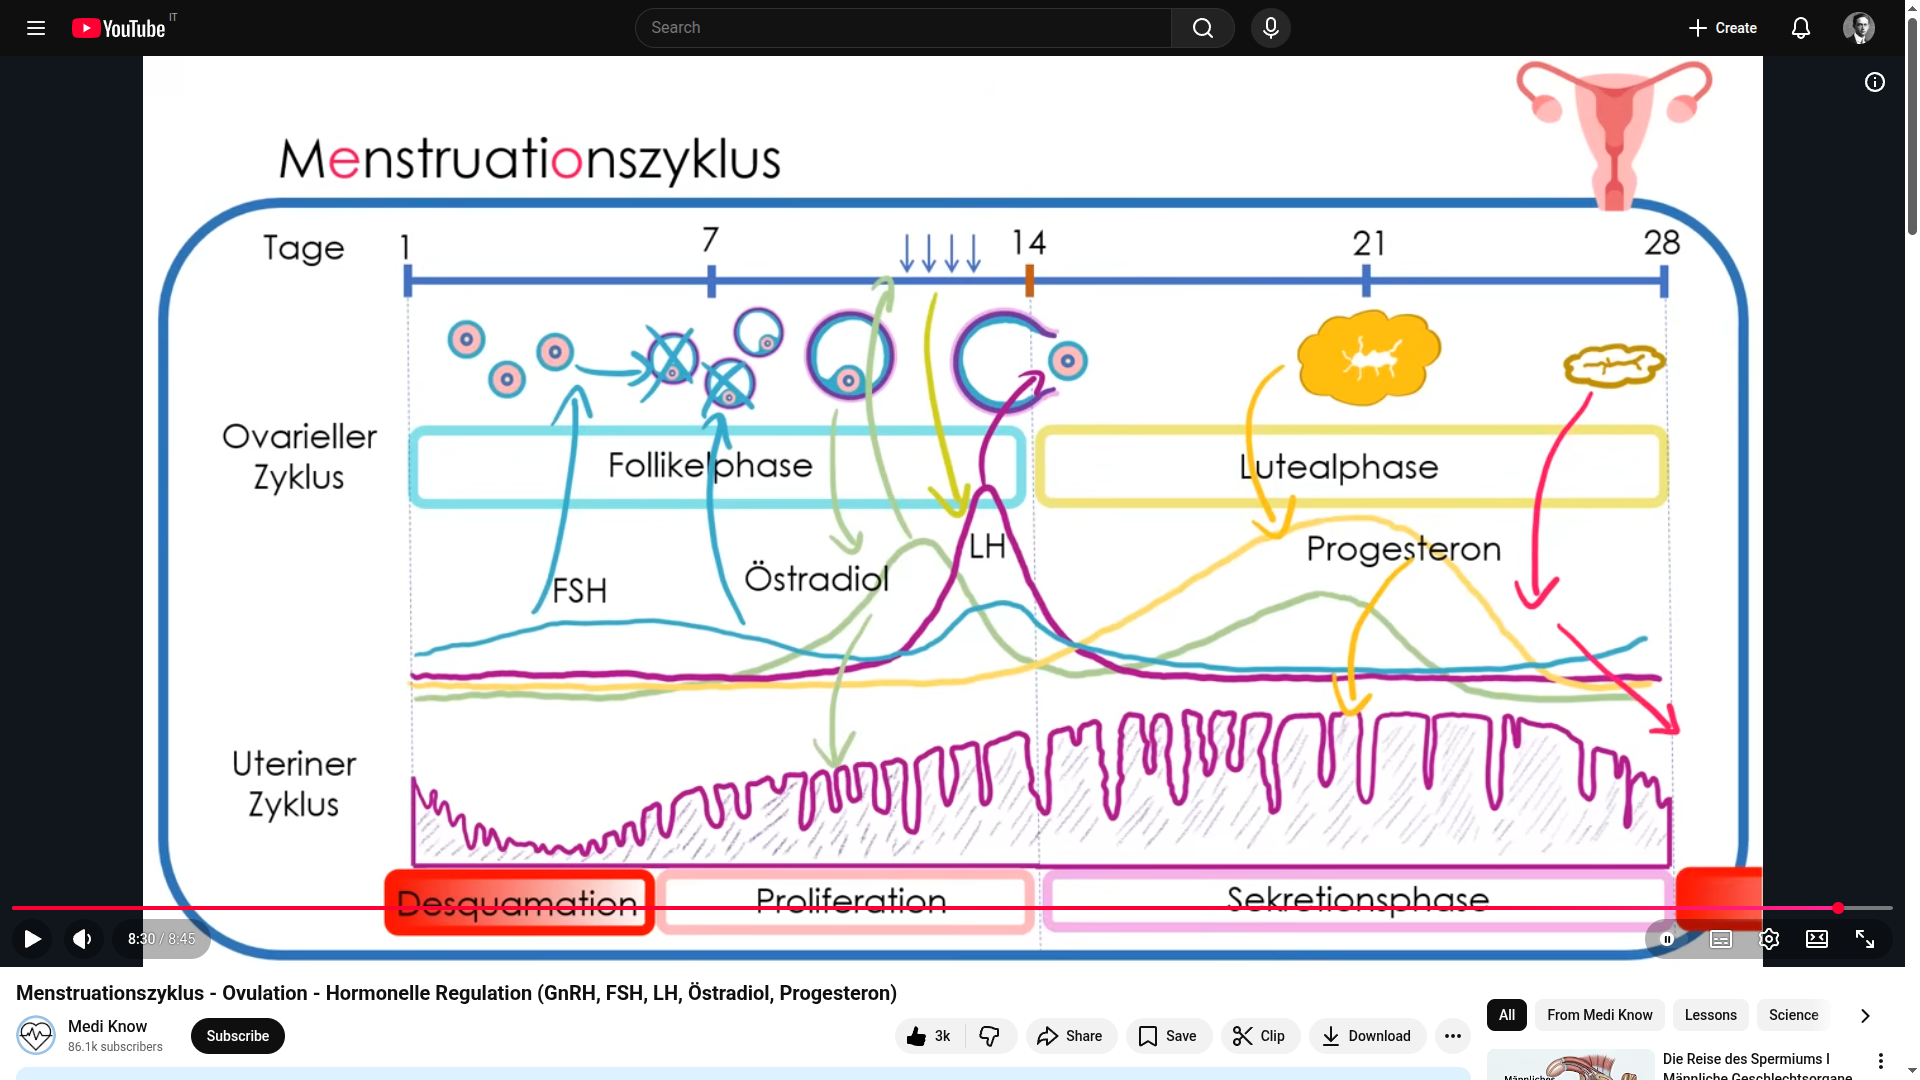
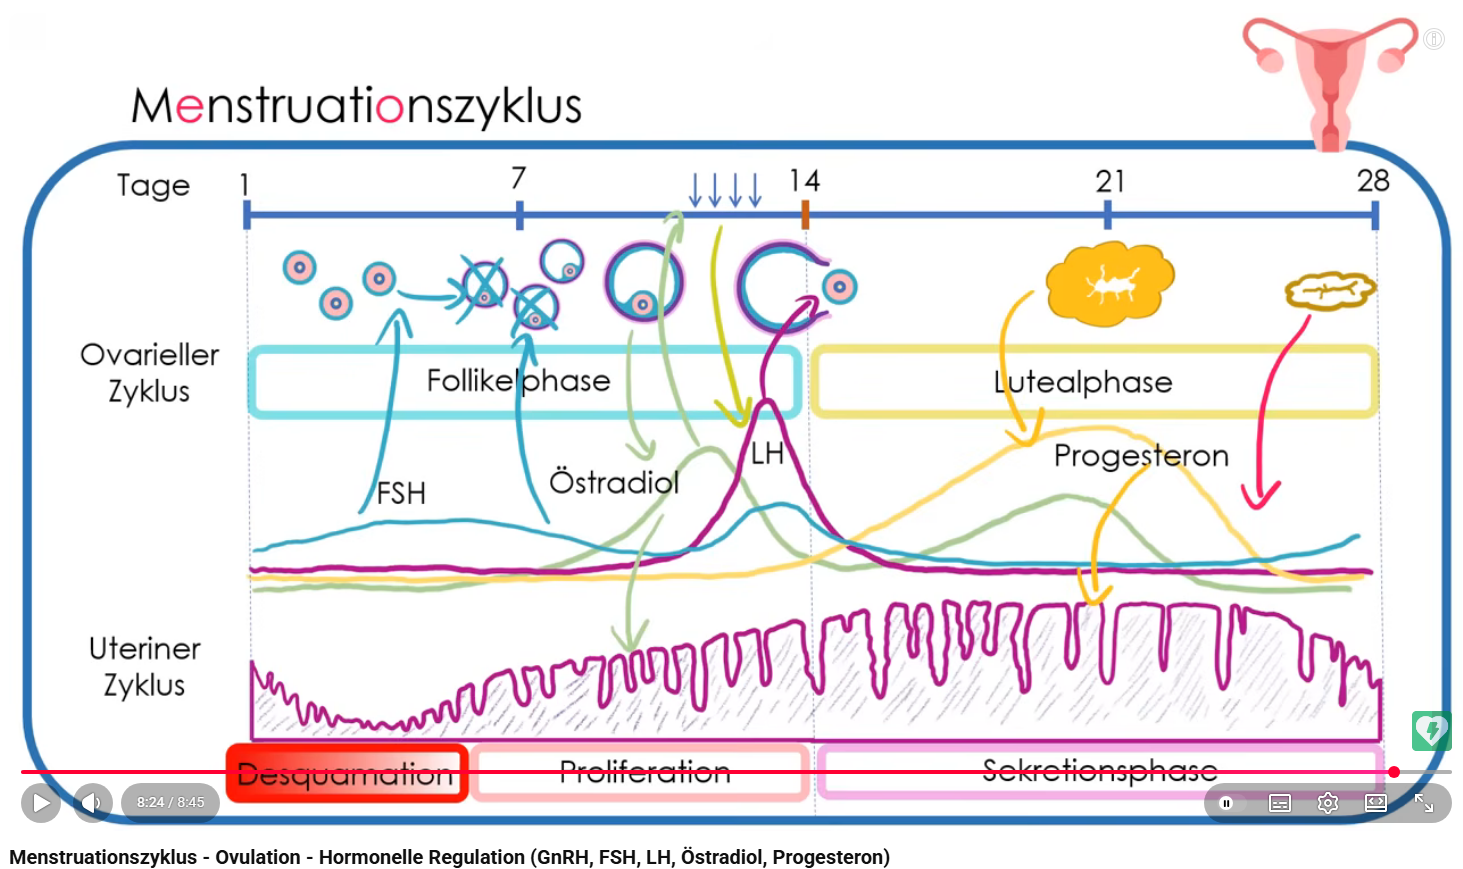
20260330

diff --git a/FemaleBiology/FemaleBiology.md b/FemaleBiology/FemaleBiology.md
@@ -11,14 +11,52 @@
 
 [Was passiert wirklich in deinem Körper? Der Menstruationszyklus erklärt | Dr. Claudia Bignion Dr. Claudia Bignion](https://www.youtube.com/watch?v=a7h1vbhAX6w)  
 
+[Das Hormonsystem / endokrine System des Menschen (Animation) Thomas Schwenke](https://www.youtube.com/watch?v=VhWCF27xXRE)   
 
-[Das Hormonsystem / endokrine System des Menschen (Animation) Thomas Schwenke](https://www.youtube.com/watch?v=VhWCF27xXRE)  
+[Schwangerschaft - So entsteht ein kleines Wunder (Animation) Thomas Schwenke](https://www.youtube.com/watch?v=0CtIIt4_uy4)    
 
 ---
 
 # [Der Menstruationszyklus - Ovulation - Hormonelle Regulation (GnRH, FSH, LH, Östradiol, Progesteron) Medi Know](https://www.youtube.com/watch?v=DOpoNkcrmfA)  
 
 ![Der Menstruationszyklus](./DerMenstruationszyklus-01.png)
+
+
+## Zusammenfassung des Menstruationszyklus: einer Überblick über alle Prozesse.
+
+1. Es gibt einen 28-tägigen Menstruationszyklus, der in zwei Teile unterteilt werden kann.
+2. Der erste Teil ist `ovarieller Zyklus` genannt.
+3. Der tweite Teil ist `uteriner Zyklus` genannt.
+4. Beide diese Teile haben zwei aufeinanderfolgende Phasen.
+5. Der erste Phase des ovariellen Zyklus ist die Follikelphase. 
+6. Während der Follikelphase werden die Follikel unter dem Einfluss des FSH-Hormons, das in das Bild mit einer blauen Linie gezeichnet ist, heranreifen. 
+7. Die Granulosazellen sind FSH-abhängig und bilden Aromatase-Östradiol (das Östradiol ist die grüne Linie im Bild) aus dem Androstendion, das meist aus der Nebennierenrinde und den Gonaden ausgeschüttet worden ist.
+7. Nur die Follikel, die die meisten Rezeptoren haben, werden den Reifungsprozess vollenden. 
+
+Zusammenfassend:
+
+Das GnRH (Gonadotropin) ist der Bauteil für die Hormone FSH und LH.
+
+Das luteinisierende Hormon (LH) wirkt auf die TK-Zellen, weil die LH-Rezeptoren haben. 
+Sie sind LH-abhängig, und konnten das Androstendion, ein männliches Sexualhormon, 
+aus dem Cholesterin bilden. 
+
+Die Granulosazellen, die nur in Weibe geben, sind FSH-abhängig und bilden Aromatase-Östradiol 
+aus dem Androstendion. Das Aromatase-Östradiol ist sorgt für die Verflüssigung des Schleims 
+im Gebärmuttershals um die Spermien leichter in die Uterushöhle einzudringen lassen. 
+Außerdem wird das Aromatase-Östradiol auch verusachen, dass die Uterusschleimhaut nach 
+der Menstruation wieder wächst. 
+
+Das FSH-Hormon stimuliert die Follikelproduktion, aber durch **die negative Rückkopplung** 
+des Östradiols über das GnRH-Hormon, fällt es zurück. Das verursacht nun, dass nur die 
+Follikel, die am meisten FSH-Rezeptoren haben, überleben können. Die Überlebenden
+Follikel werden dominante Follikel genannt und sie gehen weiter, um mehr Östradiol-Hormon
+zu ausschütten.
+
+Schließlich handelt es sich bei diesem letzten Mechanismus um **eine positive Rückkopplung**, 
+die die zuvor dargestellte negative Rückkopplung **ausgleicht**. 
+Der Konzentrationsanstieg an GnRH (Gonadotropin), den durch diese positive Rückkopplung
+vorkommt, **löst den Eisprung aus**, der auch `Ovulation` genannt wird.
 
 
 ## Was ist die die symptothermale Methode?
@@ -100,7 +138,7 @@ Die Einlagerung von Fetten in Zellen oder von Mineralien in Gestein.
 
 Das LH-Hormon stimuliert die Fetteinlagerung in die TK-Zellen und Granulosazellen.
 Die TK-Luteinzellen bilden weiterhin Androstendion und die Granulosa-Luteinzellen
-könner daraus weiterhin Östradiol machen.
+können daraus weiterhin Östradiol machen.
 
 das [Enzxym](https://www.collinsdictionary.com/dictionary/german-english/enzym)  
 die [Nbenenieren](https://www.collinsdictionary.com/dictionary/german-english/nebenniere) = suprarenal gland, adrenal body
@@ -366,6 +404,28 @@ Das Androstendion ist ein schwach wirkendes `Steroidhormon` aus der Gruppe der A
 (`männliche Sexualhormone`), das als zentrale **Vorstufe** bei der Bildung von `Testosteron`
 und `Östrogen` dient. Es wird in der `Nebennierenrinde` und den `Keimdrüsen` (`Gonaden`) 
 produziert und `spielt eine Schlüsselrolle` im `Hormonstoffwechsel` beider Geschlechter. 
+
+> Wo kommt das Androstendion her?
+
+Androstendion ist ein wichtiges Zwischenprodukt bei der Bildung von Sexualhormonen, 
+das zu etwa gleichen Teilen in der Nebennierenrinde und den Gonaden (Keimdrüsen) 
+– also Hoden beim Mann und Eierstöcken (Ovarien) bei der Frau – produziert wird. 
+Es entsteht aus Dehydroepiandrosteron (DHEA) und ist eine gemeinsame Vorstufe 
+für Testosteron, Estron und Estradiol.
+
+Hier sind die Details zur Herkunft:
+
+- Frauen: 
+Das Androstendion stammt zu ca. 50 % aus der Nebennierenrinde und zu ca. 50 % aus der Thekazellschicht der Ovarien.
+
+- Männer: 
+Die Bildung erfolgt in der Nebennierenrinde und den Leydig-Zellen des Hodens.
+
+- Wirkung & Rhythmus: 
+Es hat eine mäßig ausgeprägte Tagesrhythmik mit den höchsten Werten in den frühen Morgenstunden.
+
+- Klinische Bedeutung: 
+Der Spiegel ist oft erhöht bei Polyzystischem Ovarialsyndrom (PCOS) oder Nebennierenrinden-Störungen.
 
 > Was ist das Cholesterin?
 

diff --git a/GodAndScience.md b/GodAndScience.md
@@ -16,3 +16,7 @@
 [Evolution widerlegt?\! Biologe zerstört Religiösen Fanatiker\! \- Wolfgang Dibiasi](https://www.youtube.com/watch?v=aApLvs6f69Q) 
 
 ---
+
+[Millions are Falling For This LIE About Christianity Whaddo You Meme??](https://www.youtube.com/watch?v=sNeWWzKdjKM&t=130s)   
+
+---
